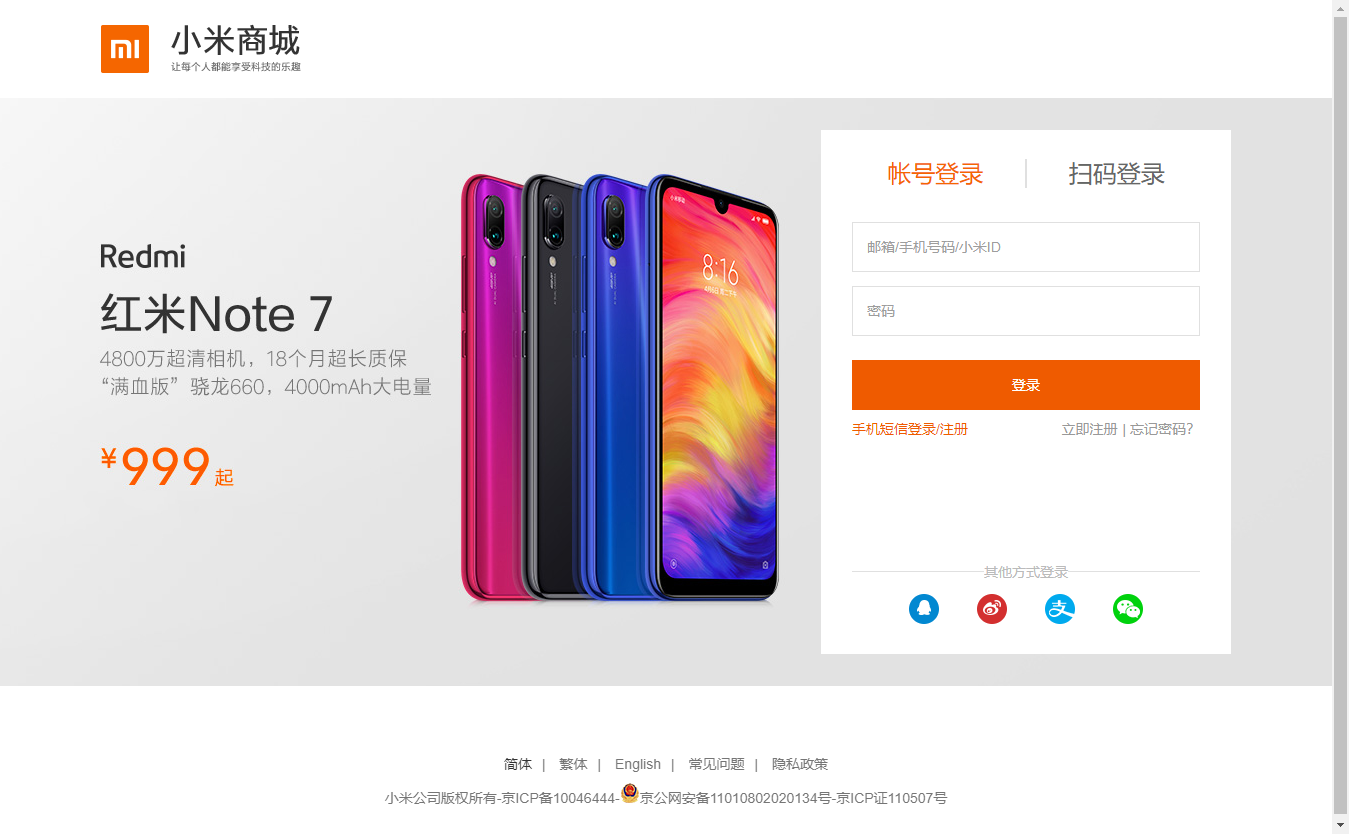
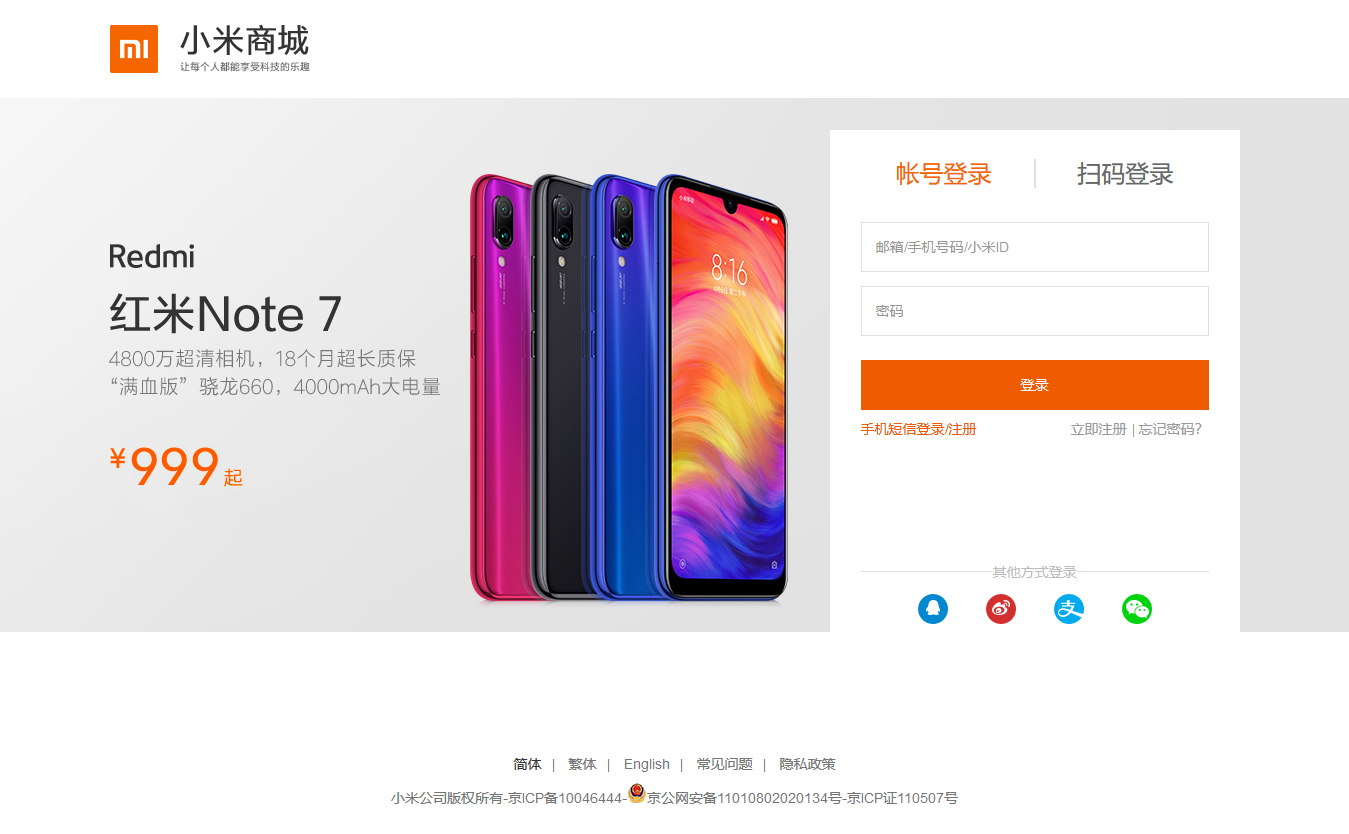
注册页

diff --git a/css/login.css b/css/login.css
@@ -1,12 +1,52 @@
 #top{
     width: 1349px;
     height: 98px;
+    margin: 0 auto;
     background-color: #fff;
 }
-.logo-bg{
-    margin-left: 101px;
-    padding-top: 25px;
+.logo{
+    margin-left: 110px;
 }
 .logo a{
+    width: 200px;
+    height: 98px;
+    background: url("../loginImages/logo.jpg");
     display: block;
+    text-indent: -9999px;
+}
+.main{
+    background: #e2e2e2;
+    position: relative;
+}
+.banner{
+    height: 535px;
+    width: 1349px;
+    background: url("../loginImages/img1_06.jpg") no-repeat;
+    display: block;
+}
+.banner img{
+    height: 535px;
+}
+.login{
+    width: 410px;
+    height: 502px;
+    background-color: #fff;
+    position: absolute;
+    top: 32px;
+    left: 830px;
+}
+.login-nav{
+    margin-left: 67px;
+}
+.login-nav a{
+    font-size: 24px;
+    line-height: 88px;
+    color: #666666;  ]
+}
+.line{
+    width: 2px;
+    height: 29px;
+    background: #e0e0e0;
+    display: inline-block;
+    margin: 0 42px 0 42px;
 }

diff --git a/login.html b/login.html
@@ -14,11 +14,17 @@
 <body>
 <div id="top">
     <div class="logo">
-        <a href="javascriipt:;">
-            <div class="logo-bg">
-                <img src="loginImages/logo.jpg" alt="小米">
-            </div>
-        </a>
+        <a href="#">小米网</a>
+    </div>
+</div>
+<div class="main">
+    <a href="#" class="banner"></a>
+    <div class="login">
+        <div class="login-nav">
+            <a href="javascript:void(0);">账号登陆</a>
+            <span class="line"></span>
+            <a href="javascript:void(0);">扫码登录</a>
+        </div>
     </div>
 </div>
 </body>
